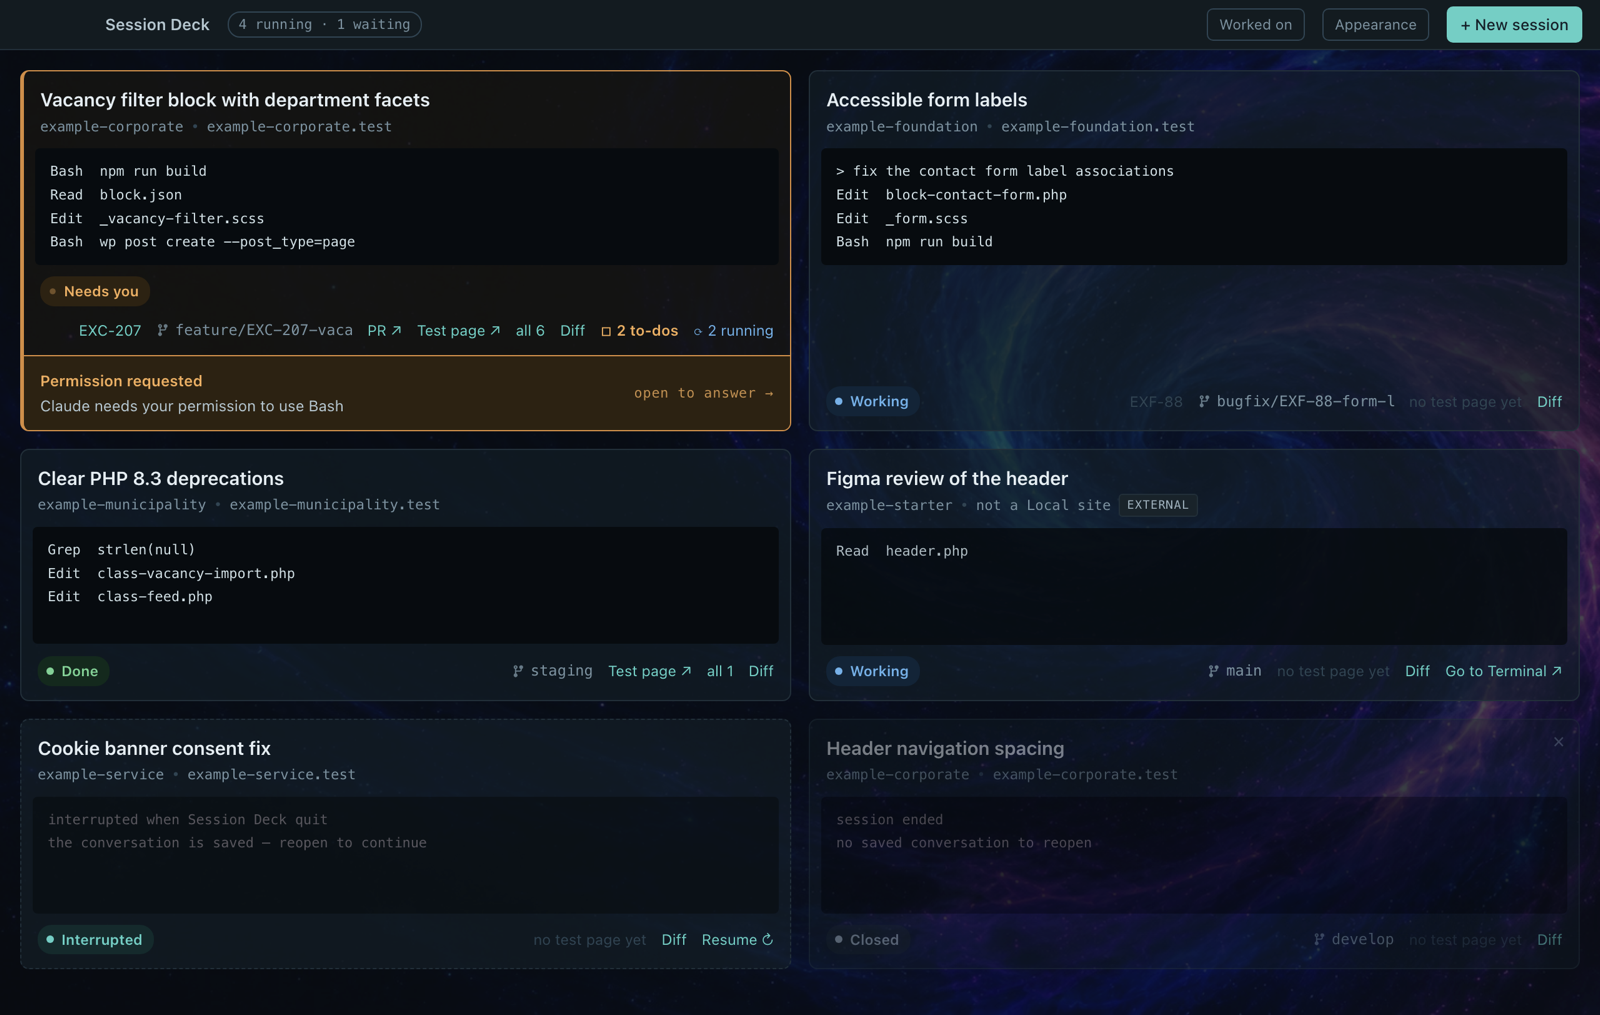
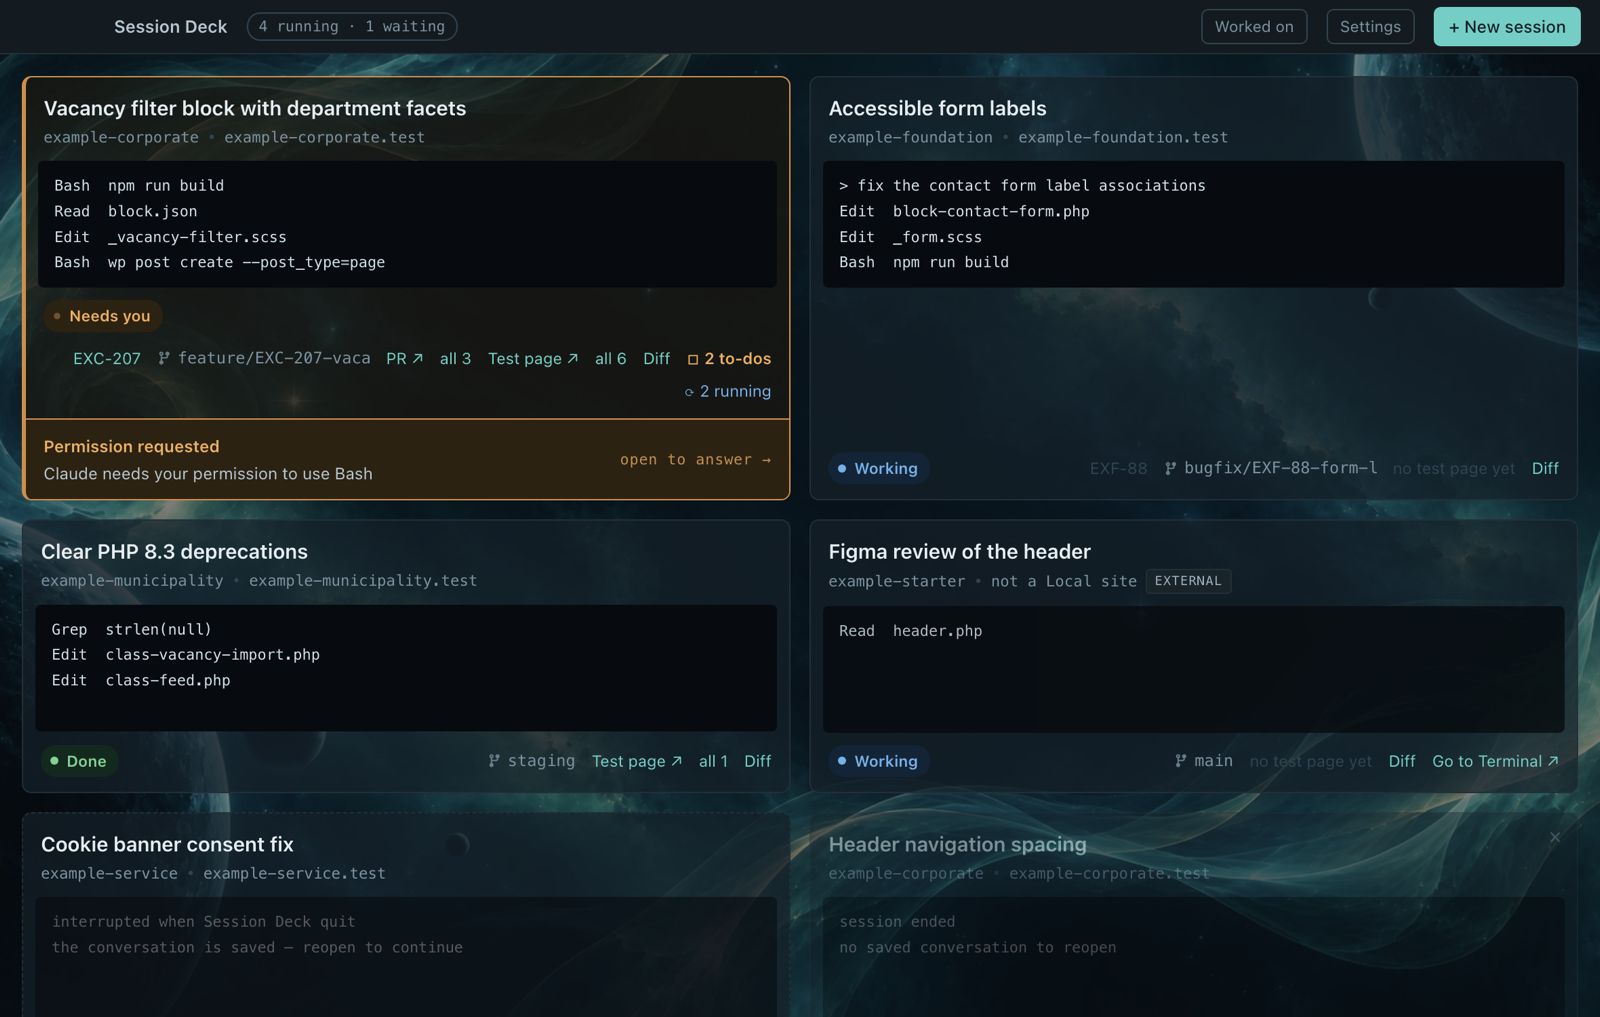
Re-render the screenshots and add the skins and the summary dialog

diff --git a/README.md b/README.md
@@ -11,9 +11,9 @@ announce itself.
 | | |
 |---|---|
 | ![A focused session](docs/screenshots/focused-session.png) | ![The diff view](docs/screenshots/diff.png) |
-| ![Hours worked](docs/screenshots/worked-on.png) | ![Appearance settings](docs/screenshots/appearance.png) |
-
-![A theme with a background image](docs/screenshots/background.png)
+| ![Hours worked, by ticket](docs/screenshots/worked-on.png) | ![A session summary](docs/screenshots/summary.png) |
+| ![The Cyberdeck skin](docs/screenshots/skin-cyberdeck.png) | ![The HUD skin](docs/screenshots/skin-hud.png) |
+| ![Settings](docs/screenshots/settings.png) | ![A theme with a background image](docs/screenshots/background.png) |
 
 *Rendered from `npm run preview` with example data — no real projects or tickets.*
 
